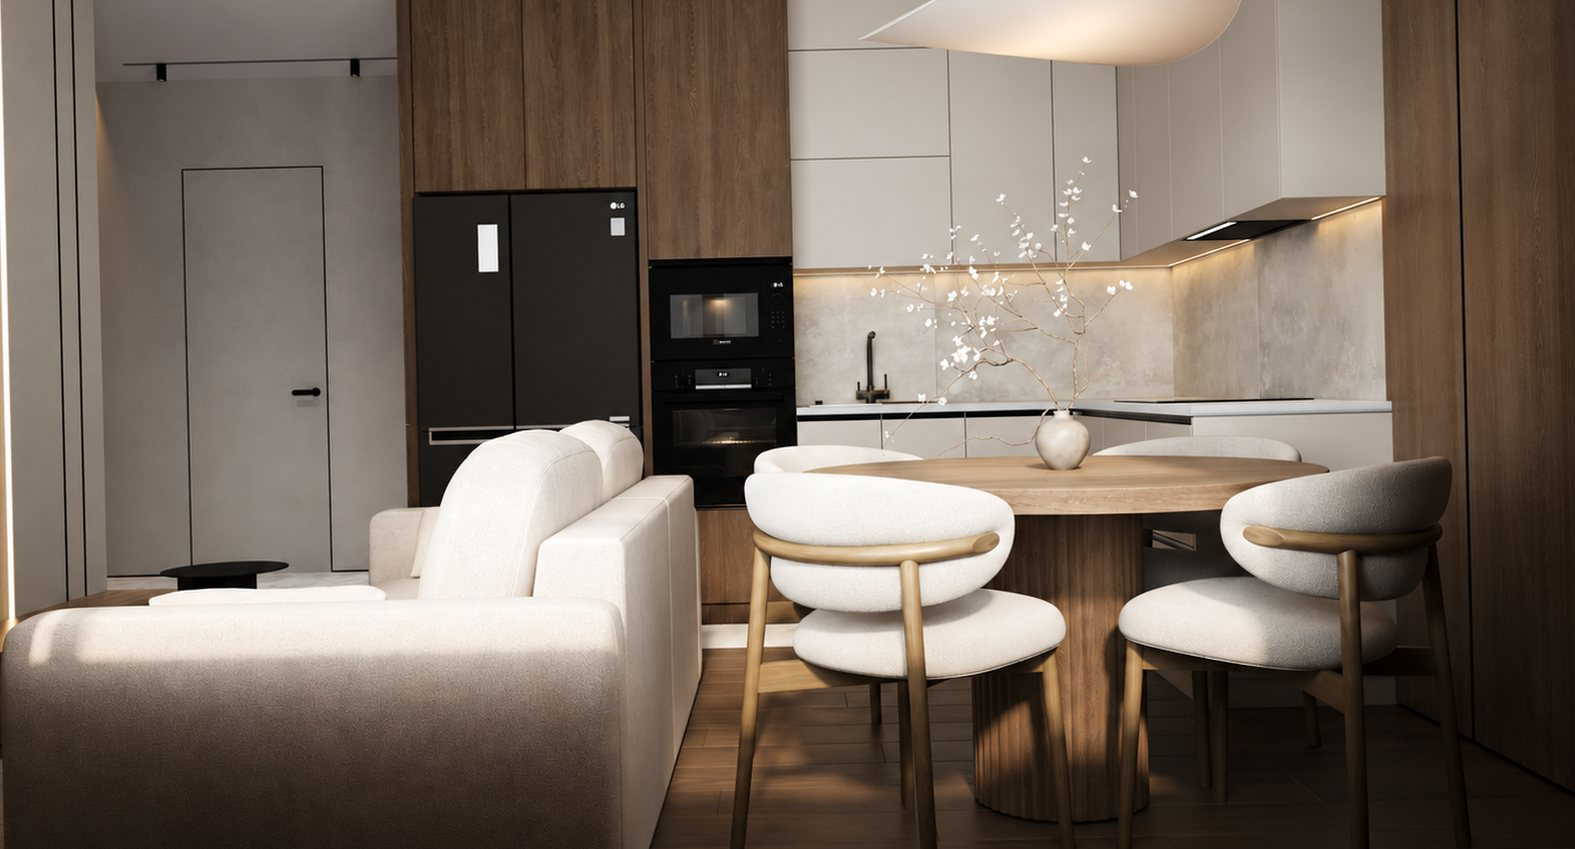
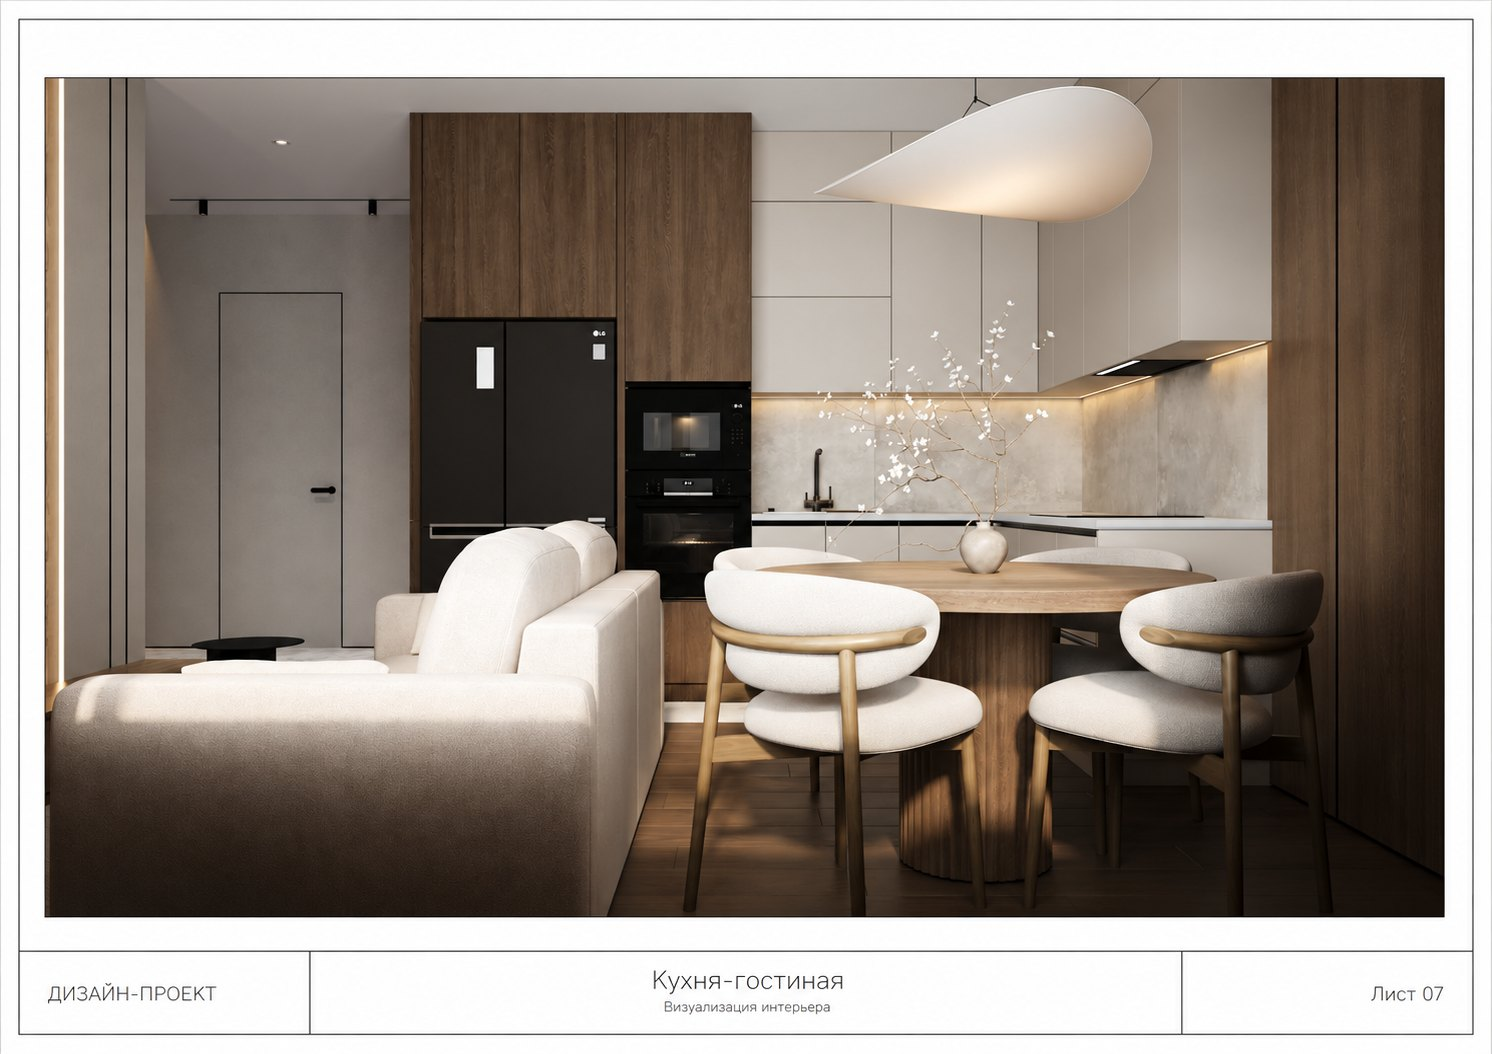
Apartments: compare keeps the design-project sheet; shadow skirting photo
Claude-Session: https://claude.ai/code/session_01LWjdqFUbUxfsHTcdZge7DC

diff --git a/index-inter.html b/index-inter.html
@@ -4585,6 +4585,11 @@ footer.ft{ text-align: left !important; padding: clamp(64px, 7vw, 112px) 0 calc(
 @media (max-width: 980px) { .cmp-grid .cmp-wrap { aspect-ratio: 3 / 2 !important; } }
 .hero-apt img { object-position: 74% 30% !important; }
 @media (max-width: 760px) { .pp2 .pp-bg[src*="apt/proof"] { object-position: 38% 60% !important; } }
+/* compare: the render keeps its design-project sheet frame */
+.cmp-grid .cmp-wrap { aspect-ratio: 1492 / 1054 !important; }
+.cmp-grid .cmp-render { background-color: #fff; }
+.cmp-grid .cmp-tag.l { display: none; }
+@media (max-width: 980px) { .cmp-grid .cmp-wrap { aspect-ratio: 1492 / 1054 !important; } }
 </style>
 </head>
 <body>
@@ -4705,7 +4710,7 @@ footer.ft{ text-align: left !important; padding: clamp(64px, 7vw, 112px) 0 calc(
     <span class="todo">Нужны 2–3 пары «визуализация / фото» с одного ракурса. Это один из самых сильных доказательных блоков — стоит переснять ракурсы специально.</span>
   </div>
 </section>
-<section class="details" id="details"><div class="container"><h2 class="section-heading reveal">Детали, которые<br><span class="tone">видно и через пять лет</span></h2><p class="section-intro reveal">Узлы, которые закладываются на черновом этапе, — после отделки их уже не добавить без вскрытия стен.</p><div class="dt-strip dt-8"><figure class="dt-card reveal"><div class="dt-img" style="background-image:url(img/apt/dt-door.jpg);background-position:center"></div><figcaption><b>Двери скрытого монтажа</b><span>Коробку ставим до штукатурки и выводим стену вровень — без наличников</span></figcaption></figure><figure class="dt-card reveal"><div class="dt-img" style="background-image:url(https://images.unsplash.com/photo-1675528030748-d463ab87e8d5?auto=format&fit=crop&w=900&q=72);background-position:center"></div><figcaption><b>Теневой профиль вместо плинтуса</b><span>Закладываем на черновом этапе, до шпаклёвки: стык — ровная тень</span></figcaption></figure><figure class="dt-card reveal"><div class="dt-img" style="background-image:url(img/apt/dt-line.jpg);background-position:center"></div><figcaption><b>Световая линия в потолке</b><span>Профиль врезаем до финиша, драйверы — в доступной нише</span></figcaption></figure><figure class="dt-card reveal"><div class="dt-img" style="background-image:url(img/apt/dt-curtain.jpg);background-position:center"></div><figcaption><b>Карниз в нише потолка</b><span>Шторы выходят из потолка: нишу и подсветку закладываем в проект</span></figcaption></figure><figure class="dt-card reveal"><div class="dt-img" style="background-image:url(img/apt/dt-parquet.jpg);background-position:center"></div><figcaption><b>Паркет ёлочкой</b><span>Раскладку ведём от оси комнаты, а не от кривой стены</span></figcaption></figure><figure class="dt-card reveal"><div class="dt-img" style="background-image:url(img/apt/dt-shower.jpg);background-position:center"></div><figcaption><b>Душ в уровень пола</b><span>Трап с доступом к сифону и гидроизоляция с заходом на стены — без порога</span></figcaption></figure><figure class="dt-card reveal"><div class="dt-img" style="background-image:url(img/apt/dt-stone.jpg);background-position:center"></div><figcaption><b>Керамогранит по рисунку</b><span>Раскладку согласуем до резки, внешние углы — запил 45° без уголков</span></figcaption></figure><figure class="dt-card reveal"><div class="dt-img" style="background-image:url(img/apt/dt-collector.jpg);background-position:center 30%"></div><figcaption><b>Коллекторный узел в нише</b><span>Фильтры, коллекторы и защита от протечек — с доступом, каждая линия подписана</span></figcaption></figure></div><span class="todo">Крупные планы — сток. Нужны 8 детальных кадров с объектов Владимира по этим же узлам; если какого-то узла нет в практике — заменить на тот, что есть.</span></div></section>
+<section class="details" id="details"><div class="container"><h2 class="section-heading reveal">Детали, которые<br><span class="tone">видно и через пять лет</span></h2><p class="section-intro reveal">Узлы, которые закладываются на черновом этапе, — после отделки их уже не добавить без вскрытия стен.</p><div class="dt-strip dt-8"><figure class="dt-card reveal"><div class="dt-img" style="background-image:url(img/apt/dt-door.jpg);background-position:center"></div><figcaption><b>Двери скрытого монтажа</b><span>Коробку ставим до штукатурки и выводим стену вровень — без наличников</span></figcaption></figure><figure class="dt-card reveal"><div class="dt-img" style="background-image:url(img/apt/dt-shadow.jpg);background-position:center"></div><figcaption><b>Теневой профиль вместо плинтуса</b><span>Закладываем на черновом этапе, до шпаклёвки: стык — ровная тень</span></figcaption></figure><figure class="dt-card reveal"><div class="dt-img" style="background-image:url(img/apt/dt-line.jpg);background-position:center"></div><figcaption><b>Световая линия в потолке</b><span>Профиль врезаем до финиша, драйверы — в доступной нише</span></figcaption></figure><figure class="dt-card reveal"><div class="dt-img" style="background-image:url(img/apt/dt-curtain.jpg);background-position:center"></div><figcaption><b>Карниз в нише потолка</b><span>Шторы выходят из потолка: нишу и подсветку закладываем в проект</span></figcaption></figure><figure class="dt-card reveal"><div class="dt-img" style="background-image:url(img/apt/dt-parquet.jpg);background-position:center"></div><figcaption><b>Паркет ёлочкой</b><span>Раскладку ведём от оси комнаты, а не от кривой стены</span></figcaption></figure><figure class="dt-card reveal"><div class="dt-img" style="background-image:url(img/apt/dt-shower.jpg);background-position:center"></div><figcaption><b>Душ в уровень пола</b><span>Трап с доступом к сифону и гидроизоляция с заходом на стены — без порога</span></figcaption></figure><figure class="dt-card reveal"><div class="dt-img" style="background-image:url(img/apt/dt-stone.jpg);background-position:center"></div><figcaption><b>Керамогранит по рисунку</b><span>Раскладку согласуем до резки, внешние углы — запил 45° без уголков</span></figcaption></figure><figure class="dt-card reveal"><div class="dt-img" style="background-image:url(img/apt/dt-collector.jpg);background-position:center 30%"></div><figcaption><b>Коллекторный узел в нише</b><span>Фильтры, коллекторы и защита от протечек — с доступом, каждая линия подписана</span></figcaption></figure></div><span class="todo">Крупные планы — сток. Нужны 8 детальных кадров с объектов Владимира по этим же узлам; если какого-то узла нет в практике — заменить на тот, что есть.</span></div></section>
 
 
 <!-- 5. NOT FOR EVERYONE -->
